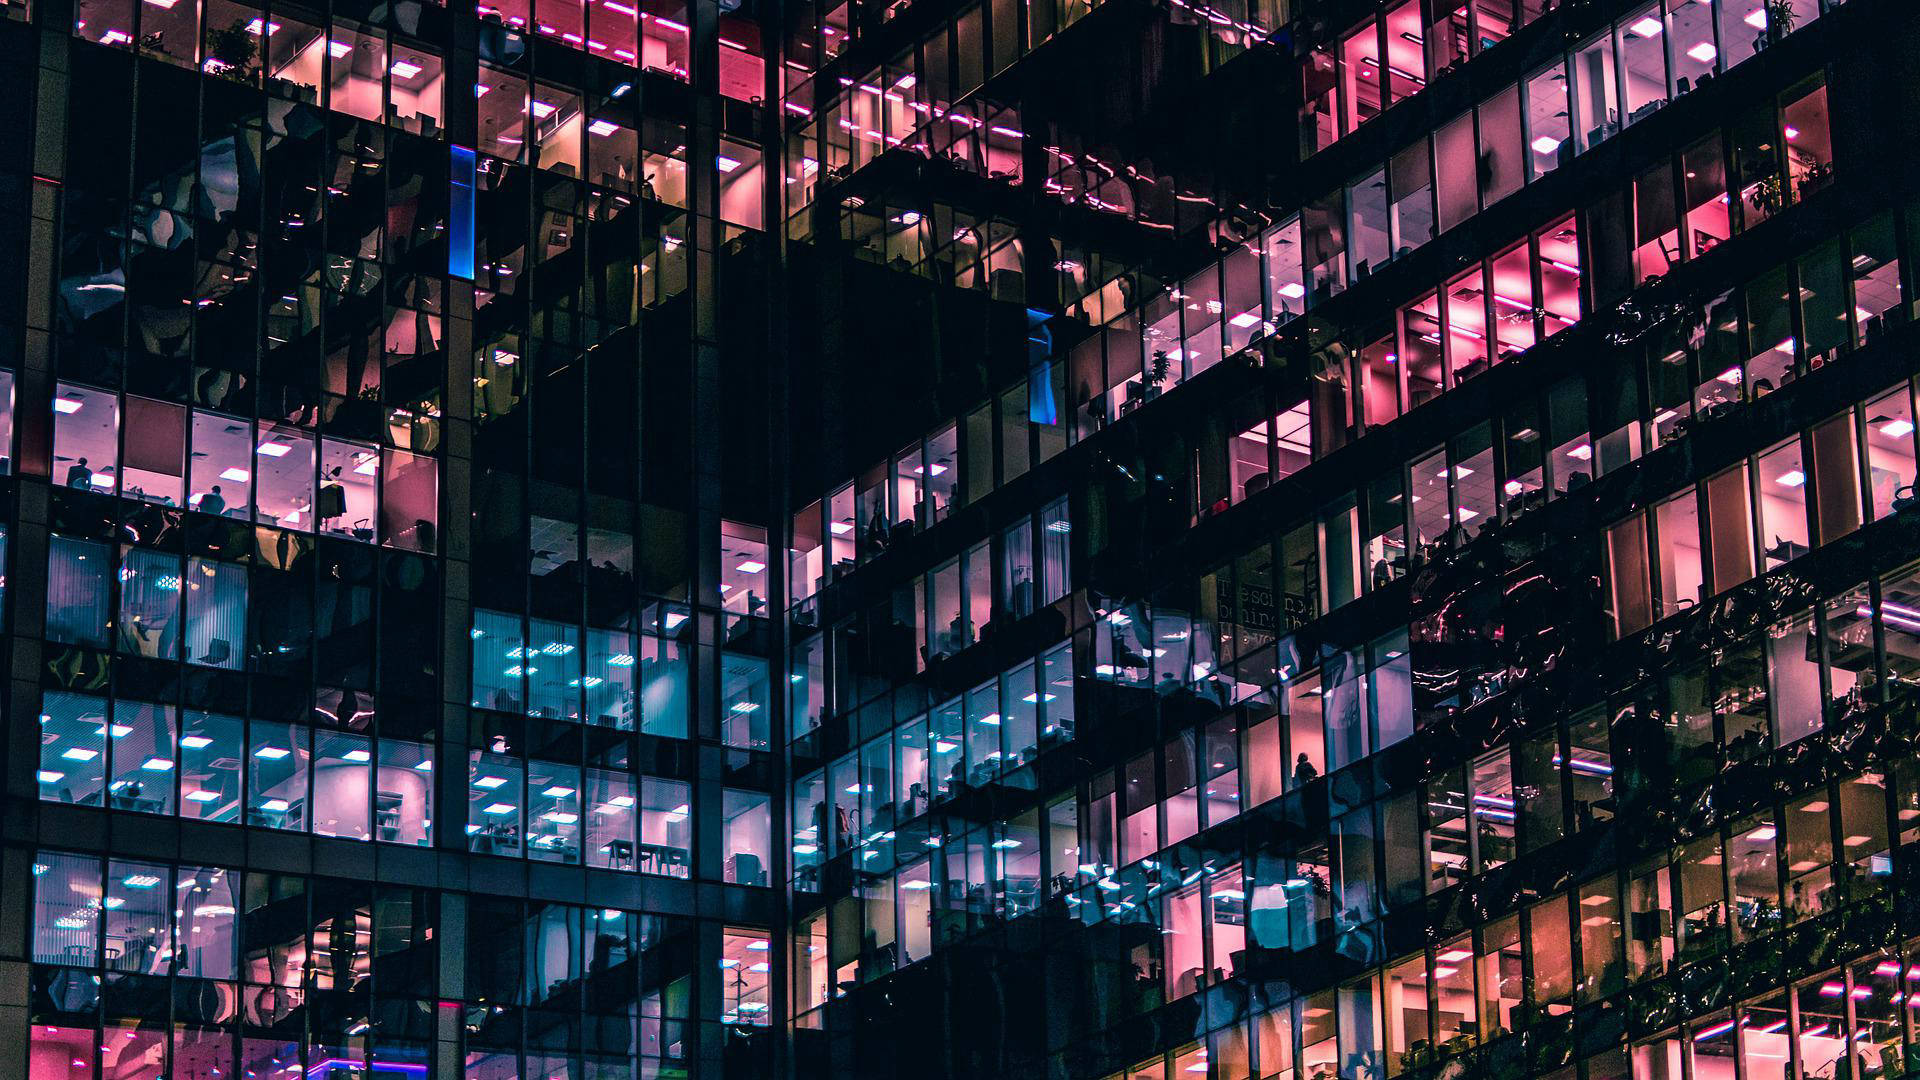
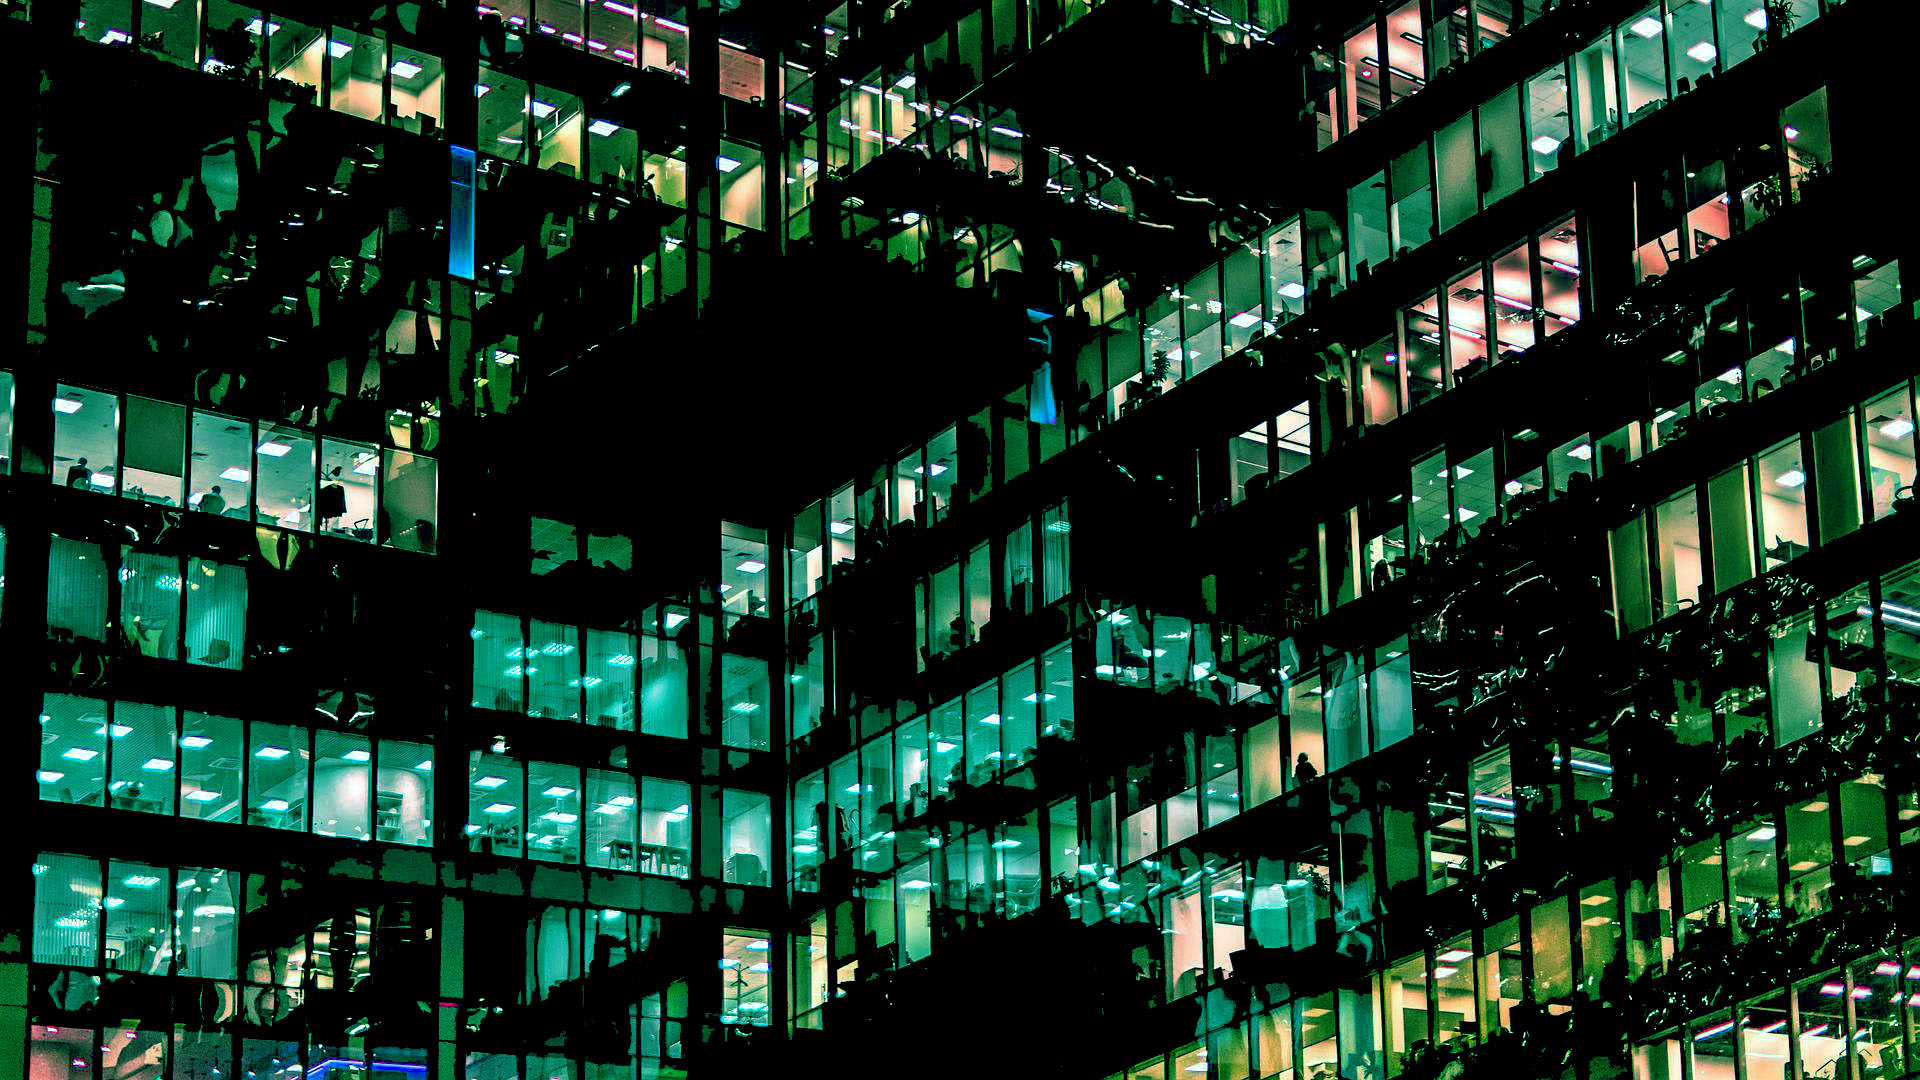
updated the colors

diff --git a/assets/css/style.css b/assets/css/style.css
@@ -19,7 +19,7 @@ a {
 }
 
 a:hover {
-  color: #ffd584;
+  color: #5cd341;
   text-decoration: none;
 }
 
@@ -42,7 +42,7 @@ h6 {
   right: 15px;
   bottom: 15px;
   z-index: 996;
-  background: #4d9c3c;
+  background: #151515;
   width: 40px;
   height: 40px;
   border-radius: 4px;
@@ -51,16 +51,17 @@ h6 {
 
 .back-to-top i {
   font-size: 28px;
-  color: #151515;
+  color: #fff;
   line-height: 0;
 }
 
 .back-to-top:hover {
-  background: #151515;
+  background: #4d9c3c;
 }
 
 .back-to-top:hover i {
-  color: #4d9c3c;
+  /* color: #4d9c3c; */
+  color: #fff;
 }
 
 .back-to-top.active {
@@ -176,8 +177,8 @@ h6 {
 }
 
 .get-started-btn:hover {
-  background: #ffbb38;
-  color: #343a40;
+  background: #4d9c3c;
+  color: #fff;
 }
 
 @media (max-width: 992px) {
@@ -418,7 +419,7 @@ h6 {
   background: url("../img/codez/codez\ \(12\).jpg") top center;
   background-size: cover;
   position: relative;
-  filter: grayscale(1);
+  /* filter: grayscale(1); */
 }
 
 #hero:before {
@@ -755,7 +756,7 @@ section {
 .cta .cta-btn:hover {
   background: #4d9c3c;
   border-color: #4d9c3c;
-  color: #151515;
+  color: #fff;
 }
 
 /*--------------------------------------------------------------
@@ -1184,7 +1185,7 @@ section {
 }
 
 .team .member .social a:hover {
-  color: #151515;
+  color: #fff;
   background: #4d9c3c;
 }
 
@@ -1234,7 +1235,7 @@ section {
 .contact .info i {
   font-size: 20px;
   background: #4d9c3c;
-  color: #151515;
+  color: #fff;
   float: left;
   width: 44px;
   height: 44px;
@@ -1338,16 +1339,17 @@ section {
 }
 
 .contact .php-email-form button[type=submit] {
-  background: #4d9c3c;
+  background: #151515;
   border: 0;
   padding: 10px 24px;
-  color: #151515;
+  color: #fff;
   transition: 0.4s;
   border-radius: 4px;
 }
 
 .contact .php-email-form button[type=submit]:hover {
-  background: #ffcd6b;
+  background: #4d9c3c;
+
 }
 
 @-webkit-keyframes animate-loading {
@@ -1480,7 +1482,7 @@ section {
 
 #footer .footer-top .social-links a:hover {
   background: #4d9c3c;
-  color: #151515;
+  color: #fff;
   text-decoration: none;
 }
 
@@ -1553,14 +1555,14 @@ section {
   background: none;
   font-size: 16px;
   padding: 0 20px;
-  background: #4d9c3c;
-  color: #151515;
+  background: #151515;
+  color: #fff;
   transition: 0.3s;
   border-radius: 0 4px 4px 0;
 }
 
 #footer .footer-top .footer-newsletter form input[type=submit]:hover {
-  background: #ffcd6b;
+  background: #4d9c3c;
 }
 
 #footer .copyright {

diff --git a/index.html b/index.html
@@ -10,8 +10,8 @@
   <meta content="" name="keywords">
 
   <!-- Favicons -->
-  <link href="assets/img/codez/new-logo1.png" rel="icon">
-  <link href="assets/img/codez/new-logo1.png" rel="apple-touch-icon">
+  <link href="assets/img/codez/new-logo.png" rel="icon">
+  <link href="assets/img/codez/new-logo.png" rel="apple-touch-icon">
 
   <!-- Google Fonts -->
   <link
@@ -175,7 +175,7 @@
 
           </div>
           <div class="col-lg-6 order-2 order-lg-2" data-aos="fade-left" data-aos-delay="100">
-            <img src="assets/img/codez/new-logo1.png" class="img-fluid" alt="">
+            <img src="assets/img/codez/new-logo.png" class="img-fluid" alt="">
           </div>
 
         </div>
@@ -797,7 +797,7 @@
               <p>
                 Islamabad, Pakistan<br><br>
                 <strong>Phone:</strong> +92 313 506 2124<br>
-                <strong>Email:</strong> fmcs360@gmail.com<br>
+                <strong>Email:</strong> codezpro4@gmail.com<br>
               </p>
               <div class="social-links mt-3">
                 <a href="#" class="twitter"><i class="bx bxl-twitter"></i></a>

diff --git a/signin.html b/signin.html
@@ -78,7 +78,7 @@
                 <h5 class="mbr-section-subtitle mbr-fonts-style mb-2 display-7">
                     <strong>Email</strong>
                 </h5>
-                <p class="mbr-text mbr-fonts-style mb-4 display-4">fmcs360@gmail.com<br><br></p>
+                <p class="mbr-text mbr-fonts-style mb-4 display-4">codezpro4@gmail.com<br><br></p>
                 
                 
             </div>
